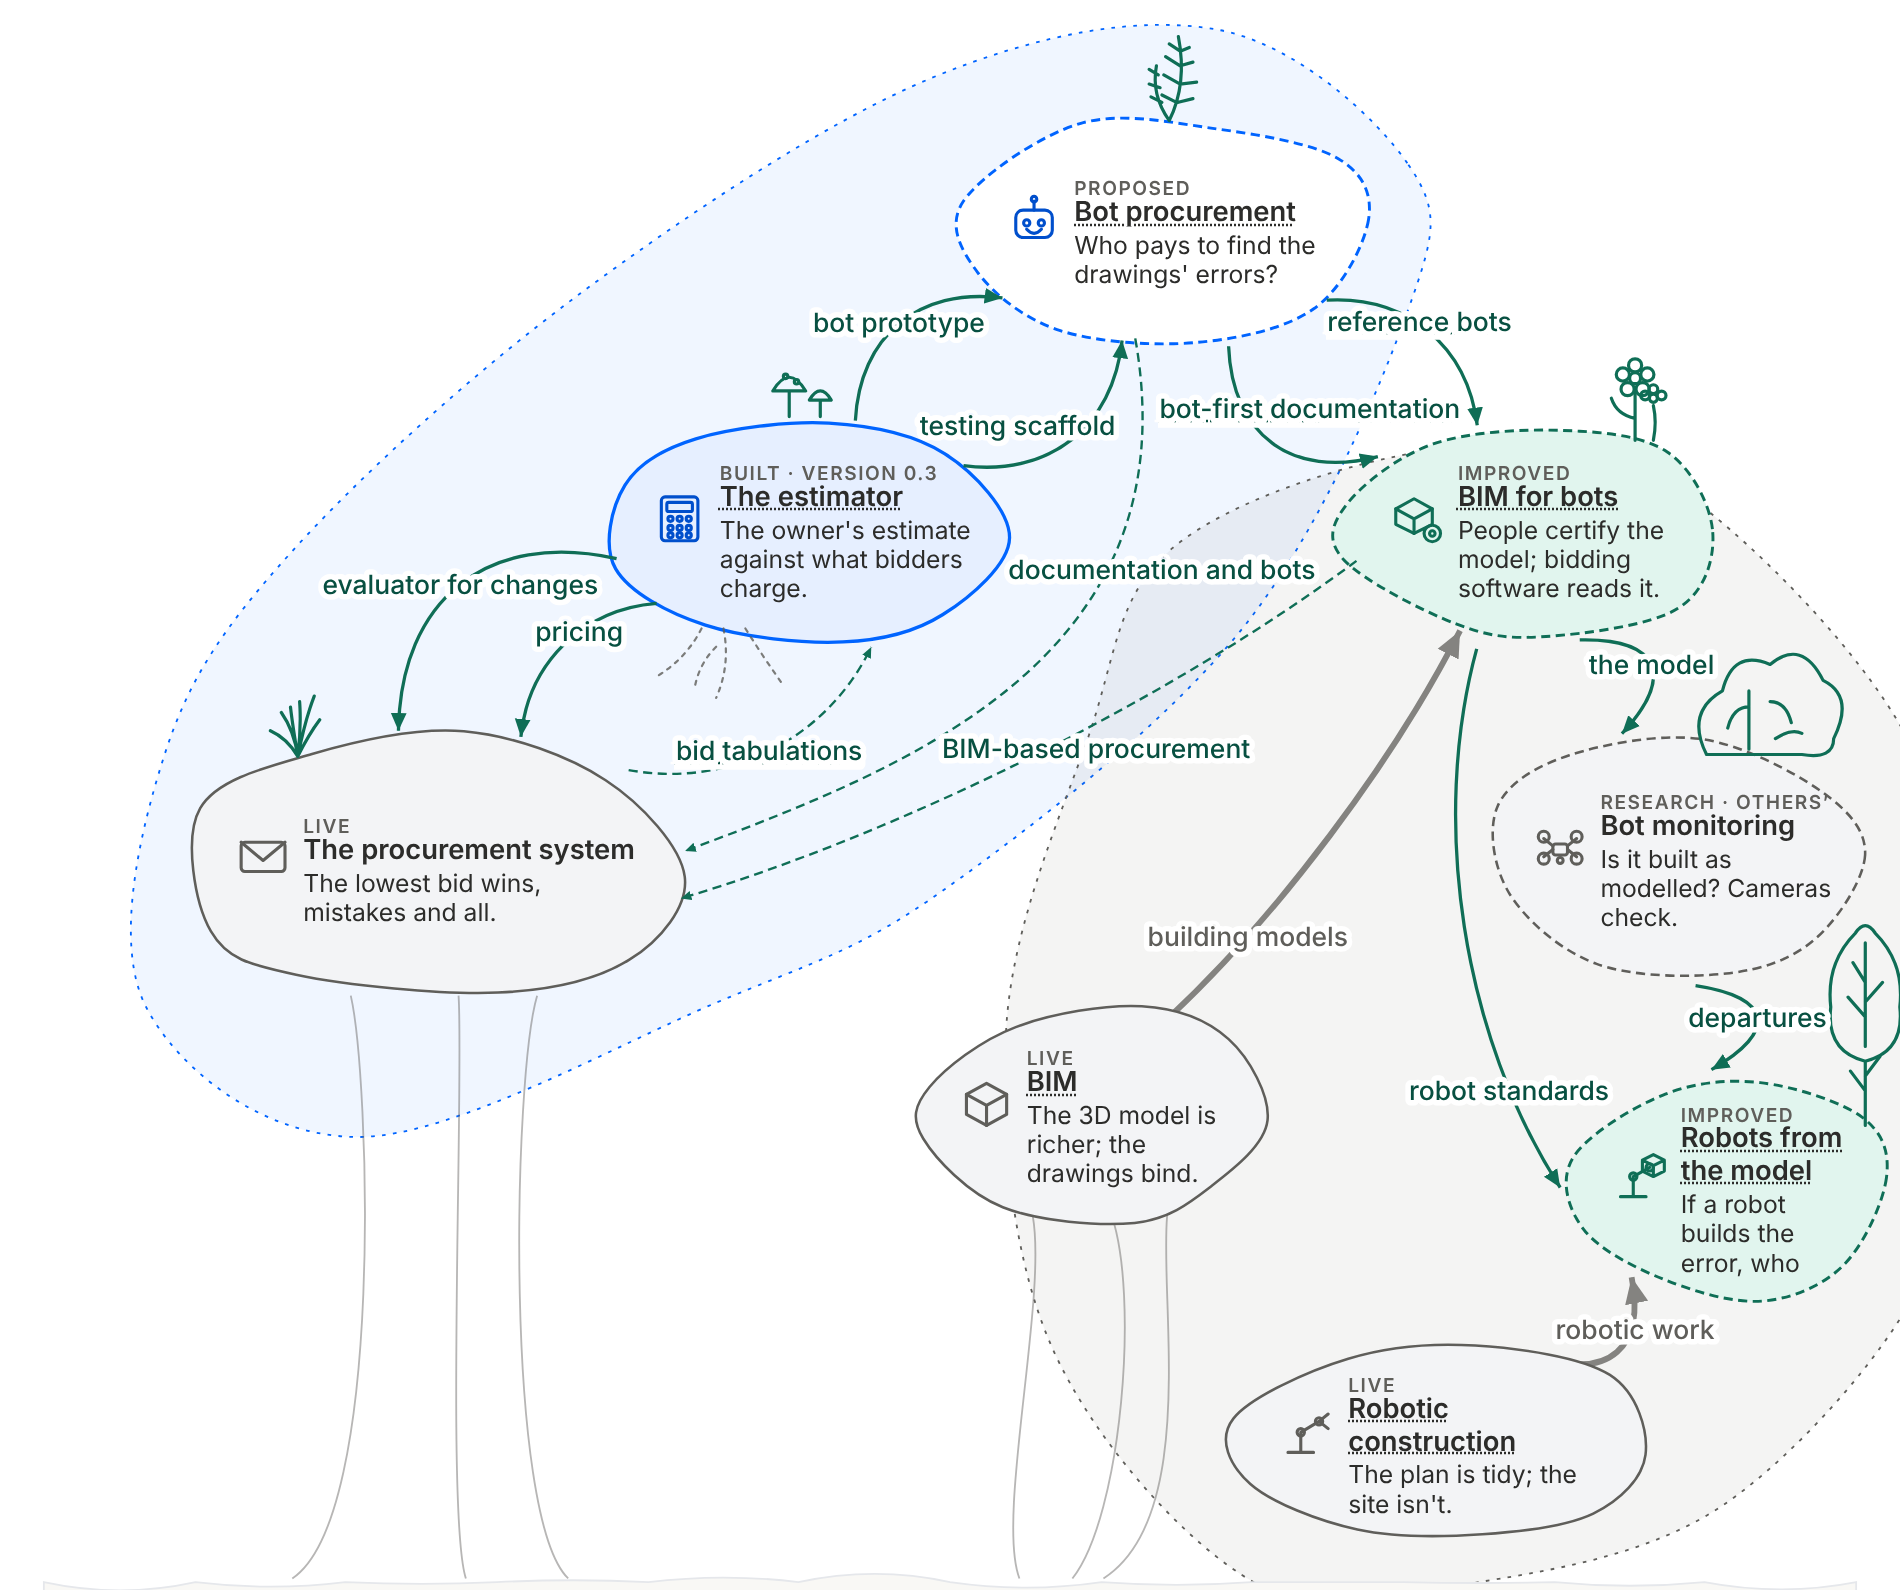
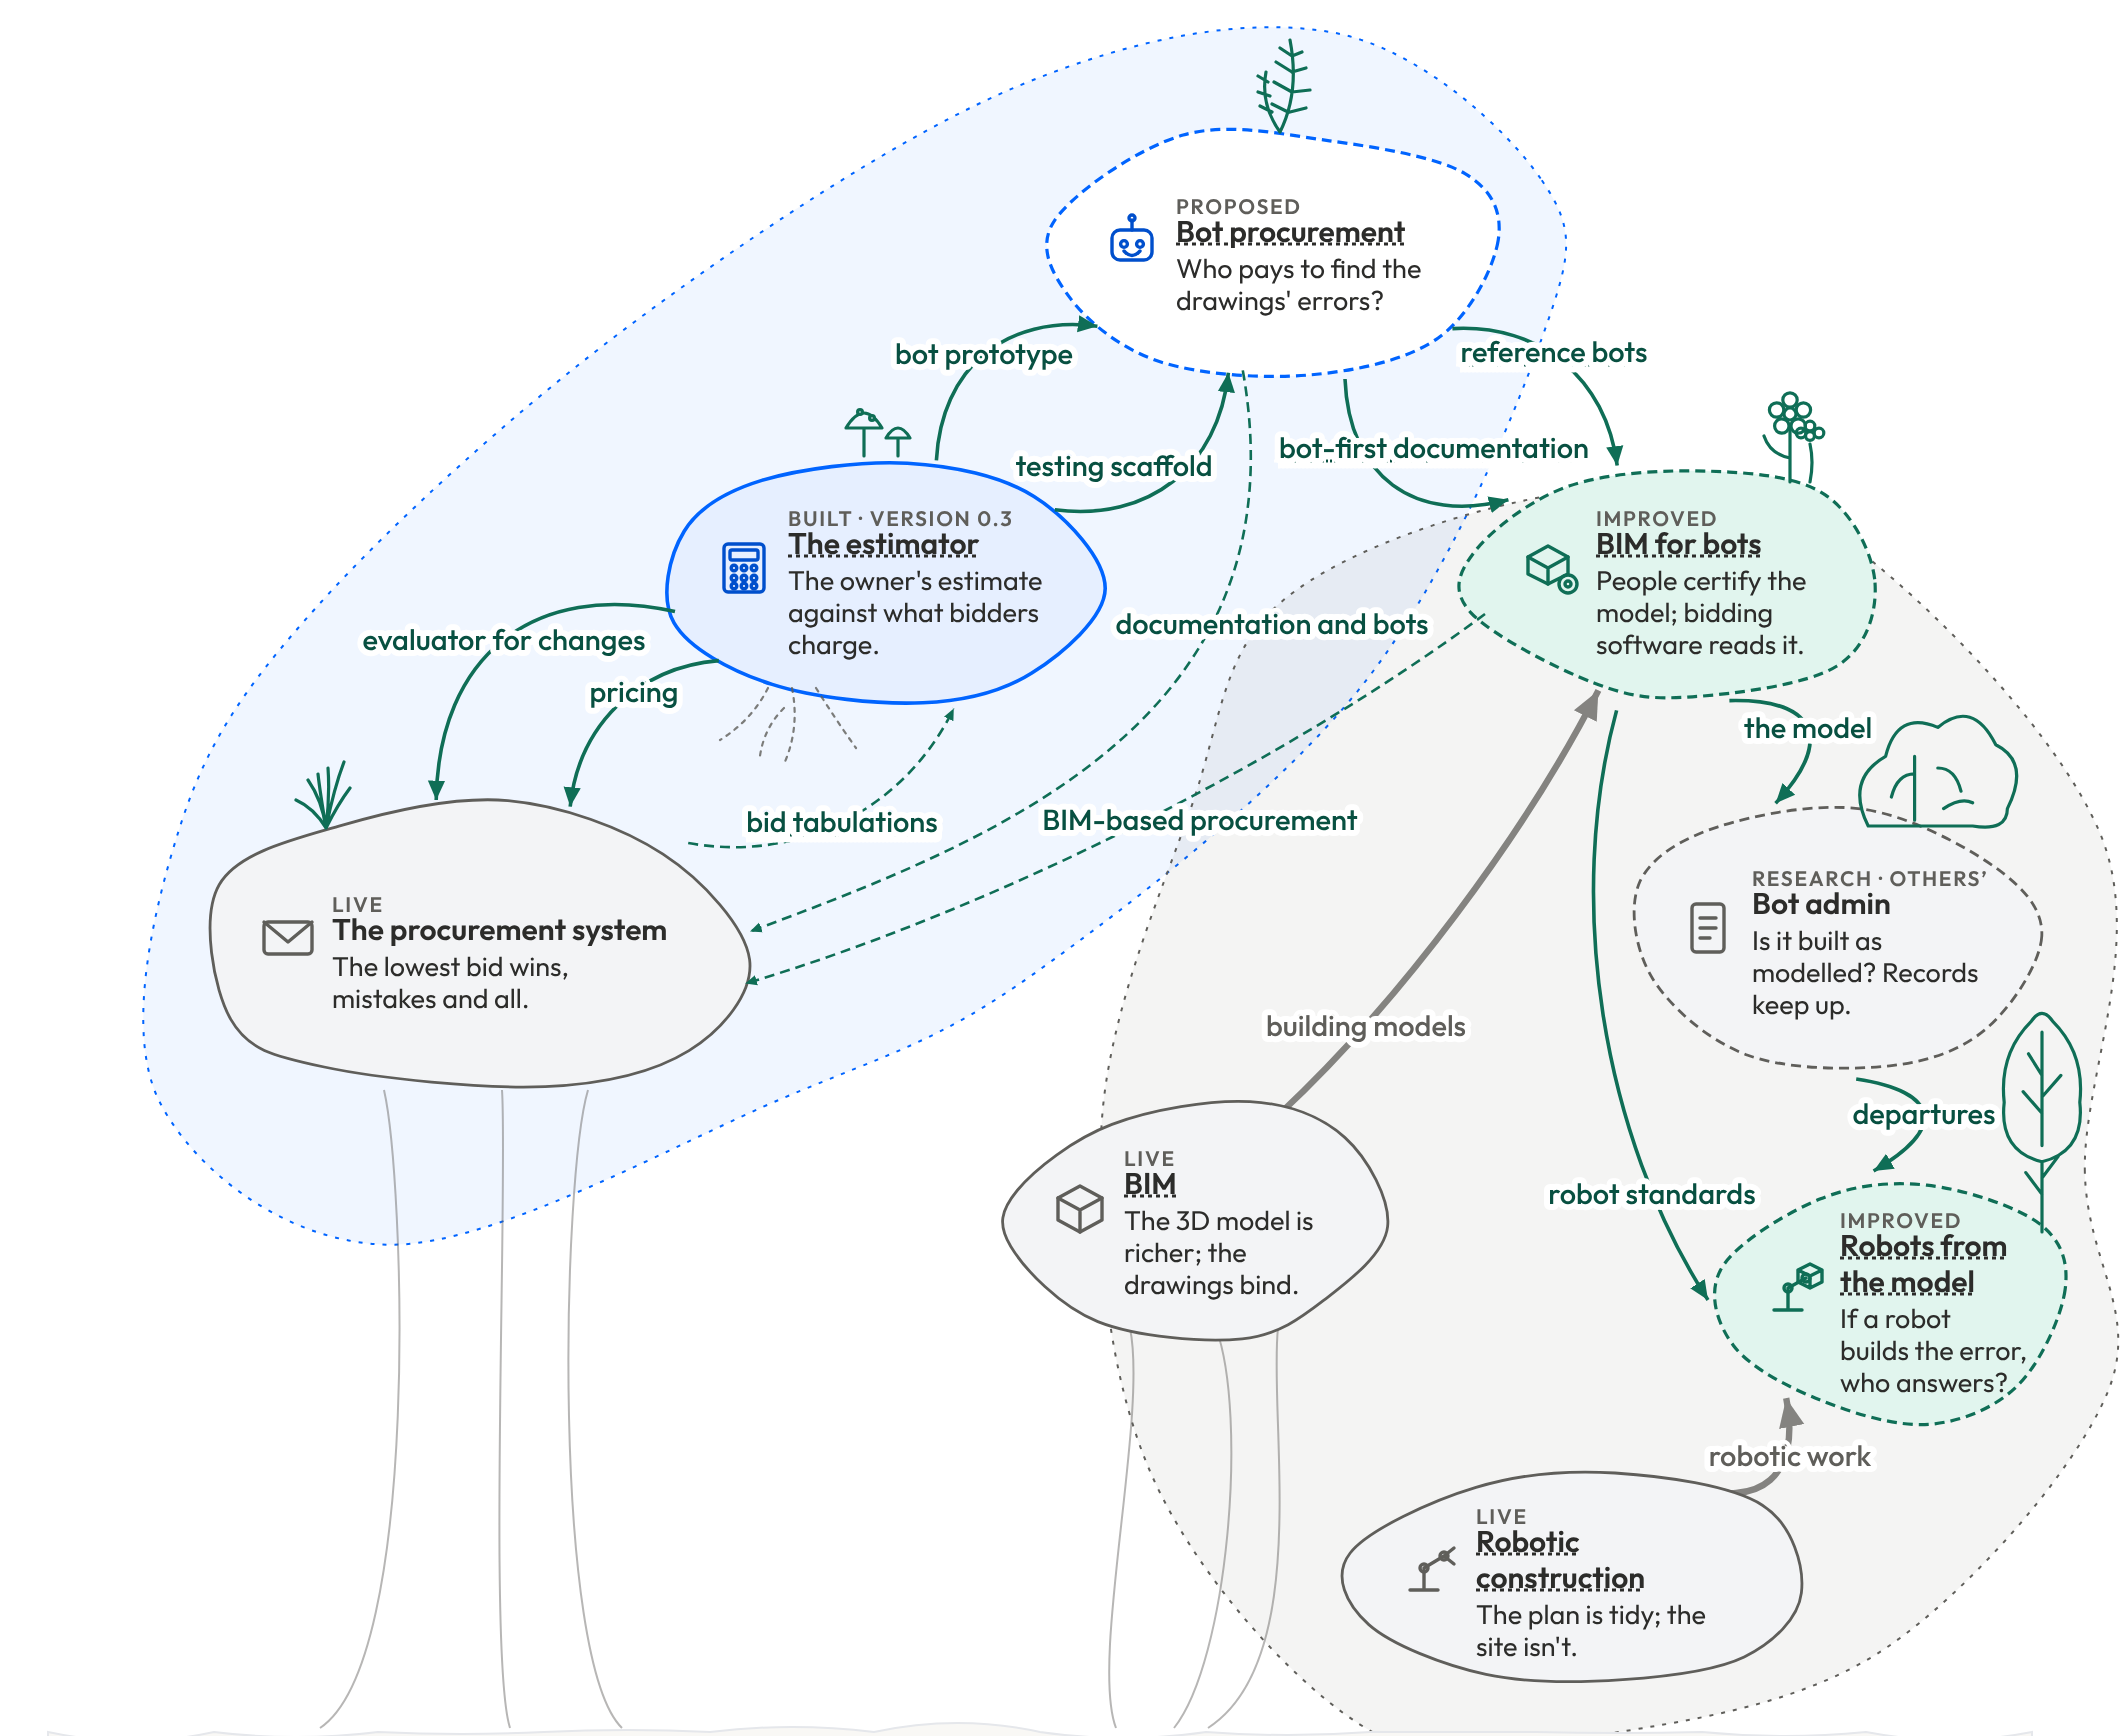
Bring the machinery figure into the book repo, with bot admin
The home page figure now has its own source (images/machinery-thicket.svg)
instead of the frozen pitch page. Bot monitoring becomes bot admin, with a
document icon and a new line; the robots line is completed.

Claude-Session: https://claude.ai/code/session_01JEzVpcuVBtdRe85B3aXYfx

diff --git a/images/machinery_thicket.py b/images/machinery_thicket.py
@@ -1,0 +1,14 @@
+"""The machinery as a thicket (home page figure), brought back into the book on 18 November 2026.
+
+The drawing was generated on 20 October 2026 by build_pitch.py in the construction-procurement-protocols
+pitch (now the frozen ruin; read, never written). Its SVG was copied out once, without the S, C and AI
+badges and the legend, and is now edited here directly: images/machinery-thicket.svg is the source.
+Usage: python images/machinery_thicket.py images/machinery-thicket   (writes an .html beside the .svg)
+then:  node images/project_hex_map_render.js "$PWD/images/machinery-thicket.html" images/machinery-thicket.png 1060 868
+"""
+import sys
+stem = sys.argv[1]
+svg = open(stem + ".svg", encoding="utf-8").read()
+open(stem + ".html", "w", encoding="utf-8").write(
+    '<!doctype html><html><head><meta charset="utf-8"><style>html,body{margin:0;background:#ffffff}</style></head><body>'
+    + svg + "</body></html>")

diff --git a/build_site.py b/build_site.py
@@ -108,7 +108,7 @@ HOME = """# Bot Procurement Book
 
 **When a bot causes harm, who pays?** A short manifesto on liability in construction procurement, public and private, and the standard that has to exist before owners, bidders and courts can rely on a bot.
 
-![The machinery: the procurement system, the estimator and bot procurement on one ground; BIM, bot monitoring and robotic construction on another, with what each machine makes for the next](images/machinery-thicket.png)
+![The machinery: the procurement system, the estimator and bot procurement on one ground; BIM, BIM for bots, bot admin and robotic construction on another, with what each machine makes for the next](images/machinery-thicket.png)
 
 *The machinery, from today's procurement system to robotic construction: what each machine makes for the next.*
 

diff --git a/images/README.md b/images/README.md
@@ -2,7 +2,7 @@
 
 Figures for the book, the site and the PiBoWriMo listing. They are covered by the repository's CC BY 4.0 licence, like the text. The book's cover art is kept out of this folder.
 
-- `machinery-thicket.png`: the machinery figure, "the thicket", without its legend or the S, C and AI badges. It shows the project's machines, from the procurement system to robotic construction, and what each one makes for the next. It is used on the site's home page. Source: `pitch/index.html` in `construction-procurement-protocols` (October 2026).
+- `machinery-thicket.png`: the machinery figure, "the thicket", without its legend or the S, C and AI badges. It shows the project's machines, from the procurement system to robotic construction, and what each one makes for the next. It is used on the site's home page. First drawn in `pitch/index.html` in `construction-procurement-protocols` (October 2026, now a ruin, read only); since 18 November 2026 its source is `machinery-thicket.svg` in this folder, with "bot monitoring" renamed "bot admin" (a document icon in place of the drone) and the robots line completed. Rebuild: `python images/machinery_thicket.py images/machinery-thicket`, then `node images/project_hex_map_render.js "$PWD/images/machinery-thicket.html" images/machinery-thicket.png 1060 868`.
 - `listing-thicket.png`: the thicket with the working title, 3200 × 1800 (16:9), for the Protocol Institute project listing.
 - `listing-tender.png`: "A tender run for bots: what the protocol changes", with the working title, 3200 × 1800 (16:9). A candidate figure for chapter 11.
 - `delivery-methods-2x2.png` (and `.svg`): "Who works for whom, and how they deal", the delivery methods on two axes (Principal to Principal or to Agent; competitive or cooperative), with the General Contractor and Consultant in the centre. Chapter 2. Rebuild with `python images/delivery_methods_2x2.py images/delivery-methods-2x2`, then `node images/project_hex_map_render.js "$PWD/images/delivery-methods-2x2.html" images/delivery-methods-2x2.png 1600 1300`.
